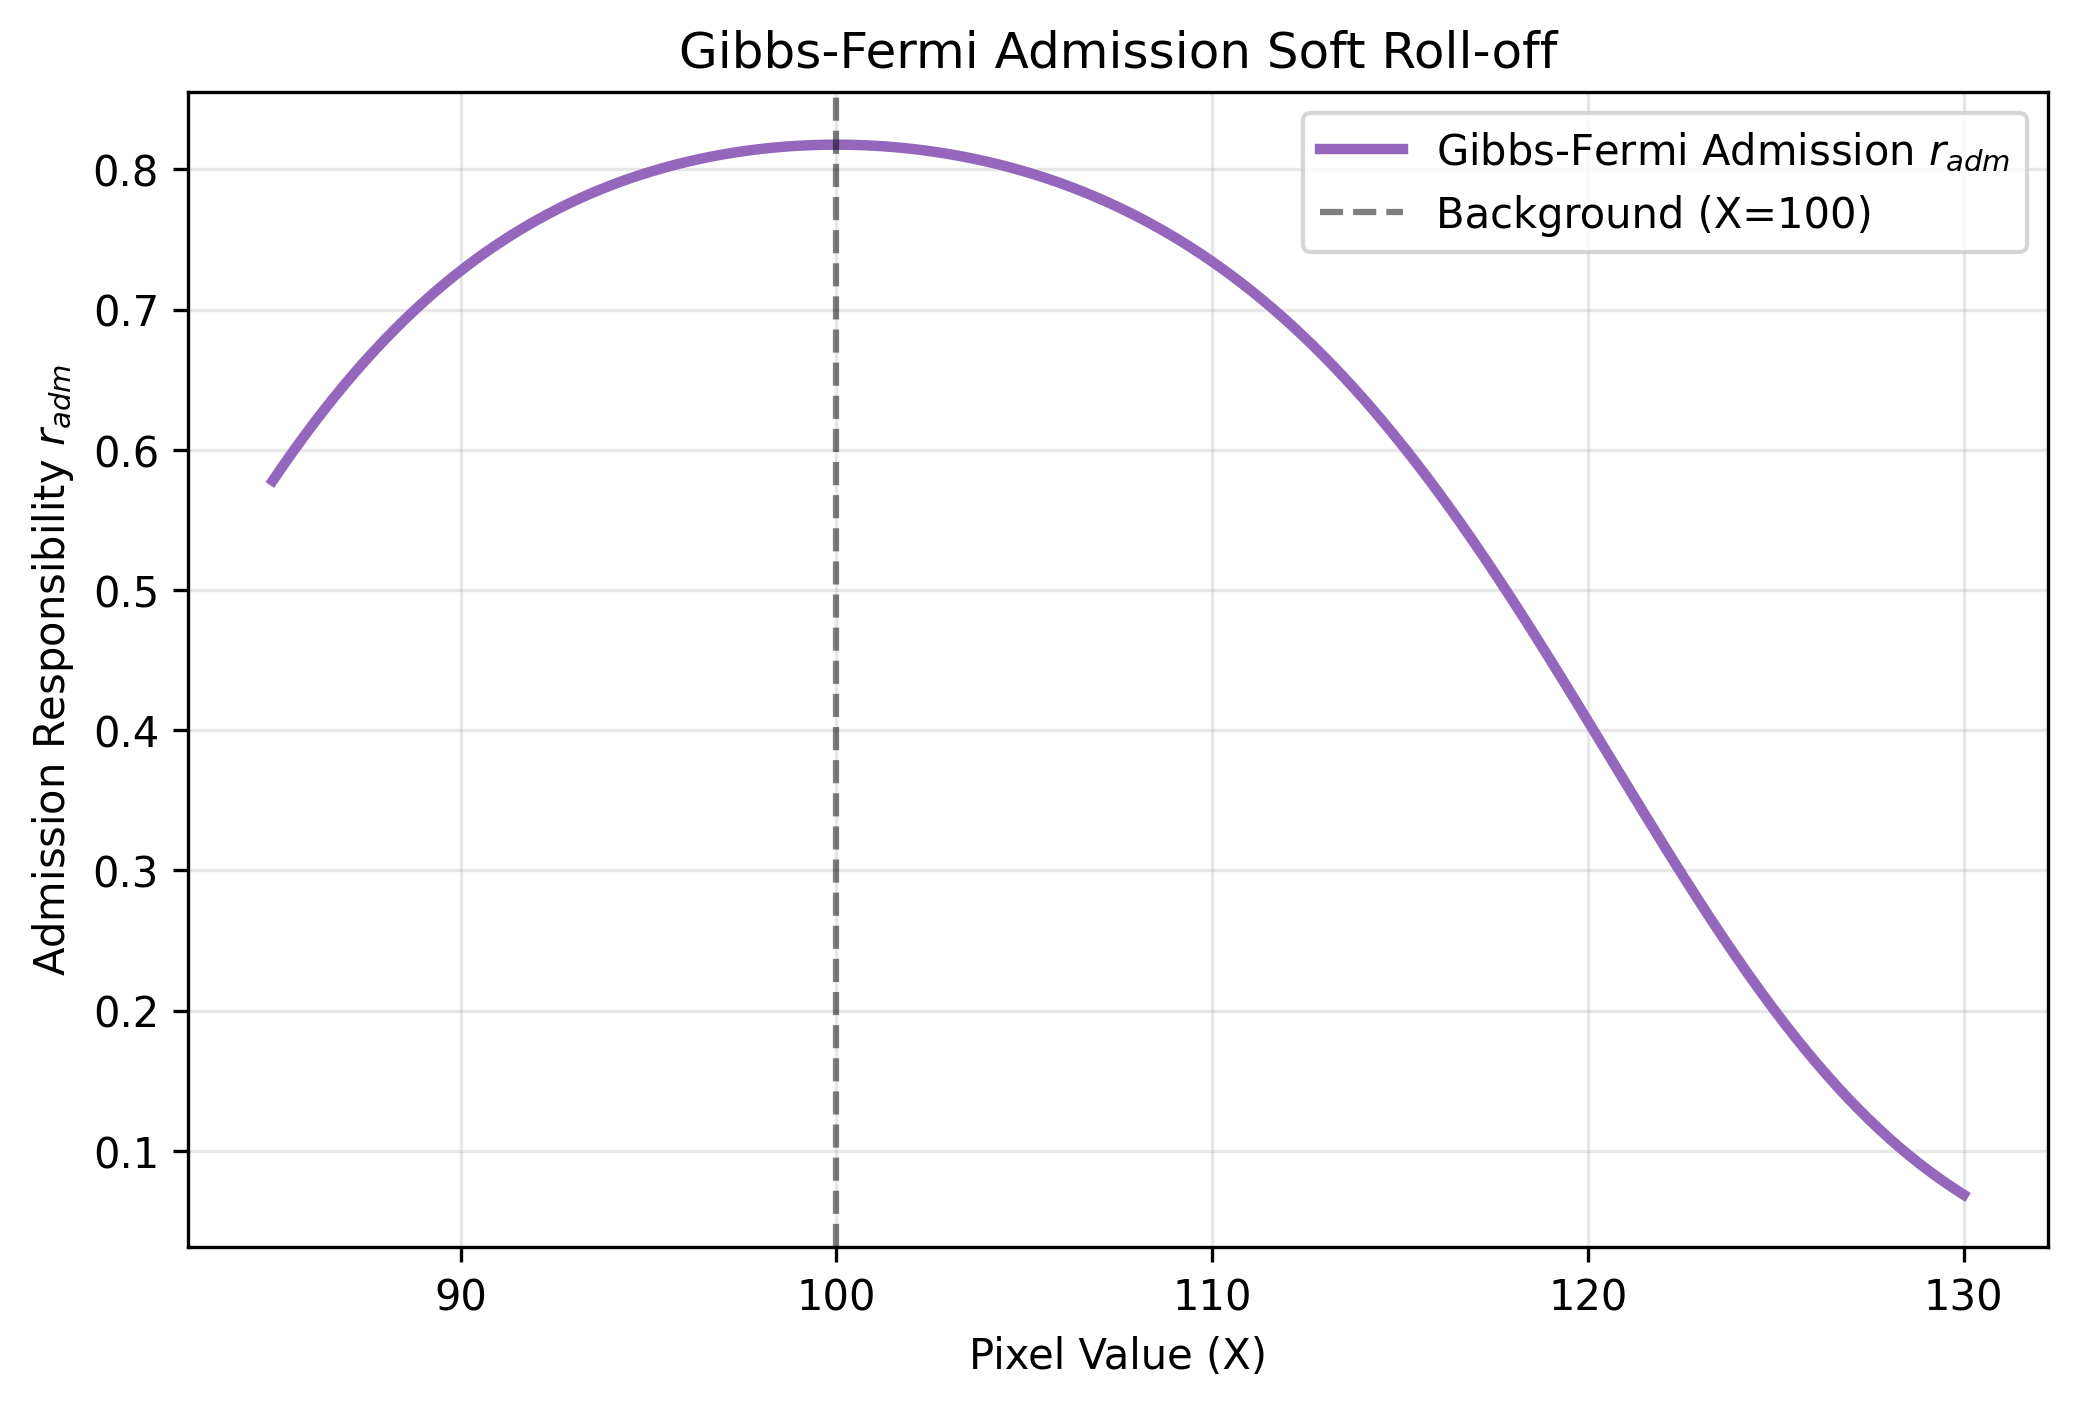
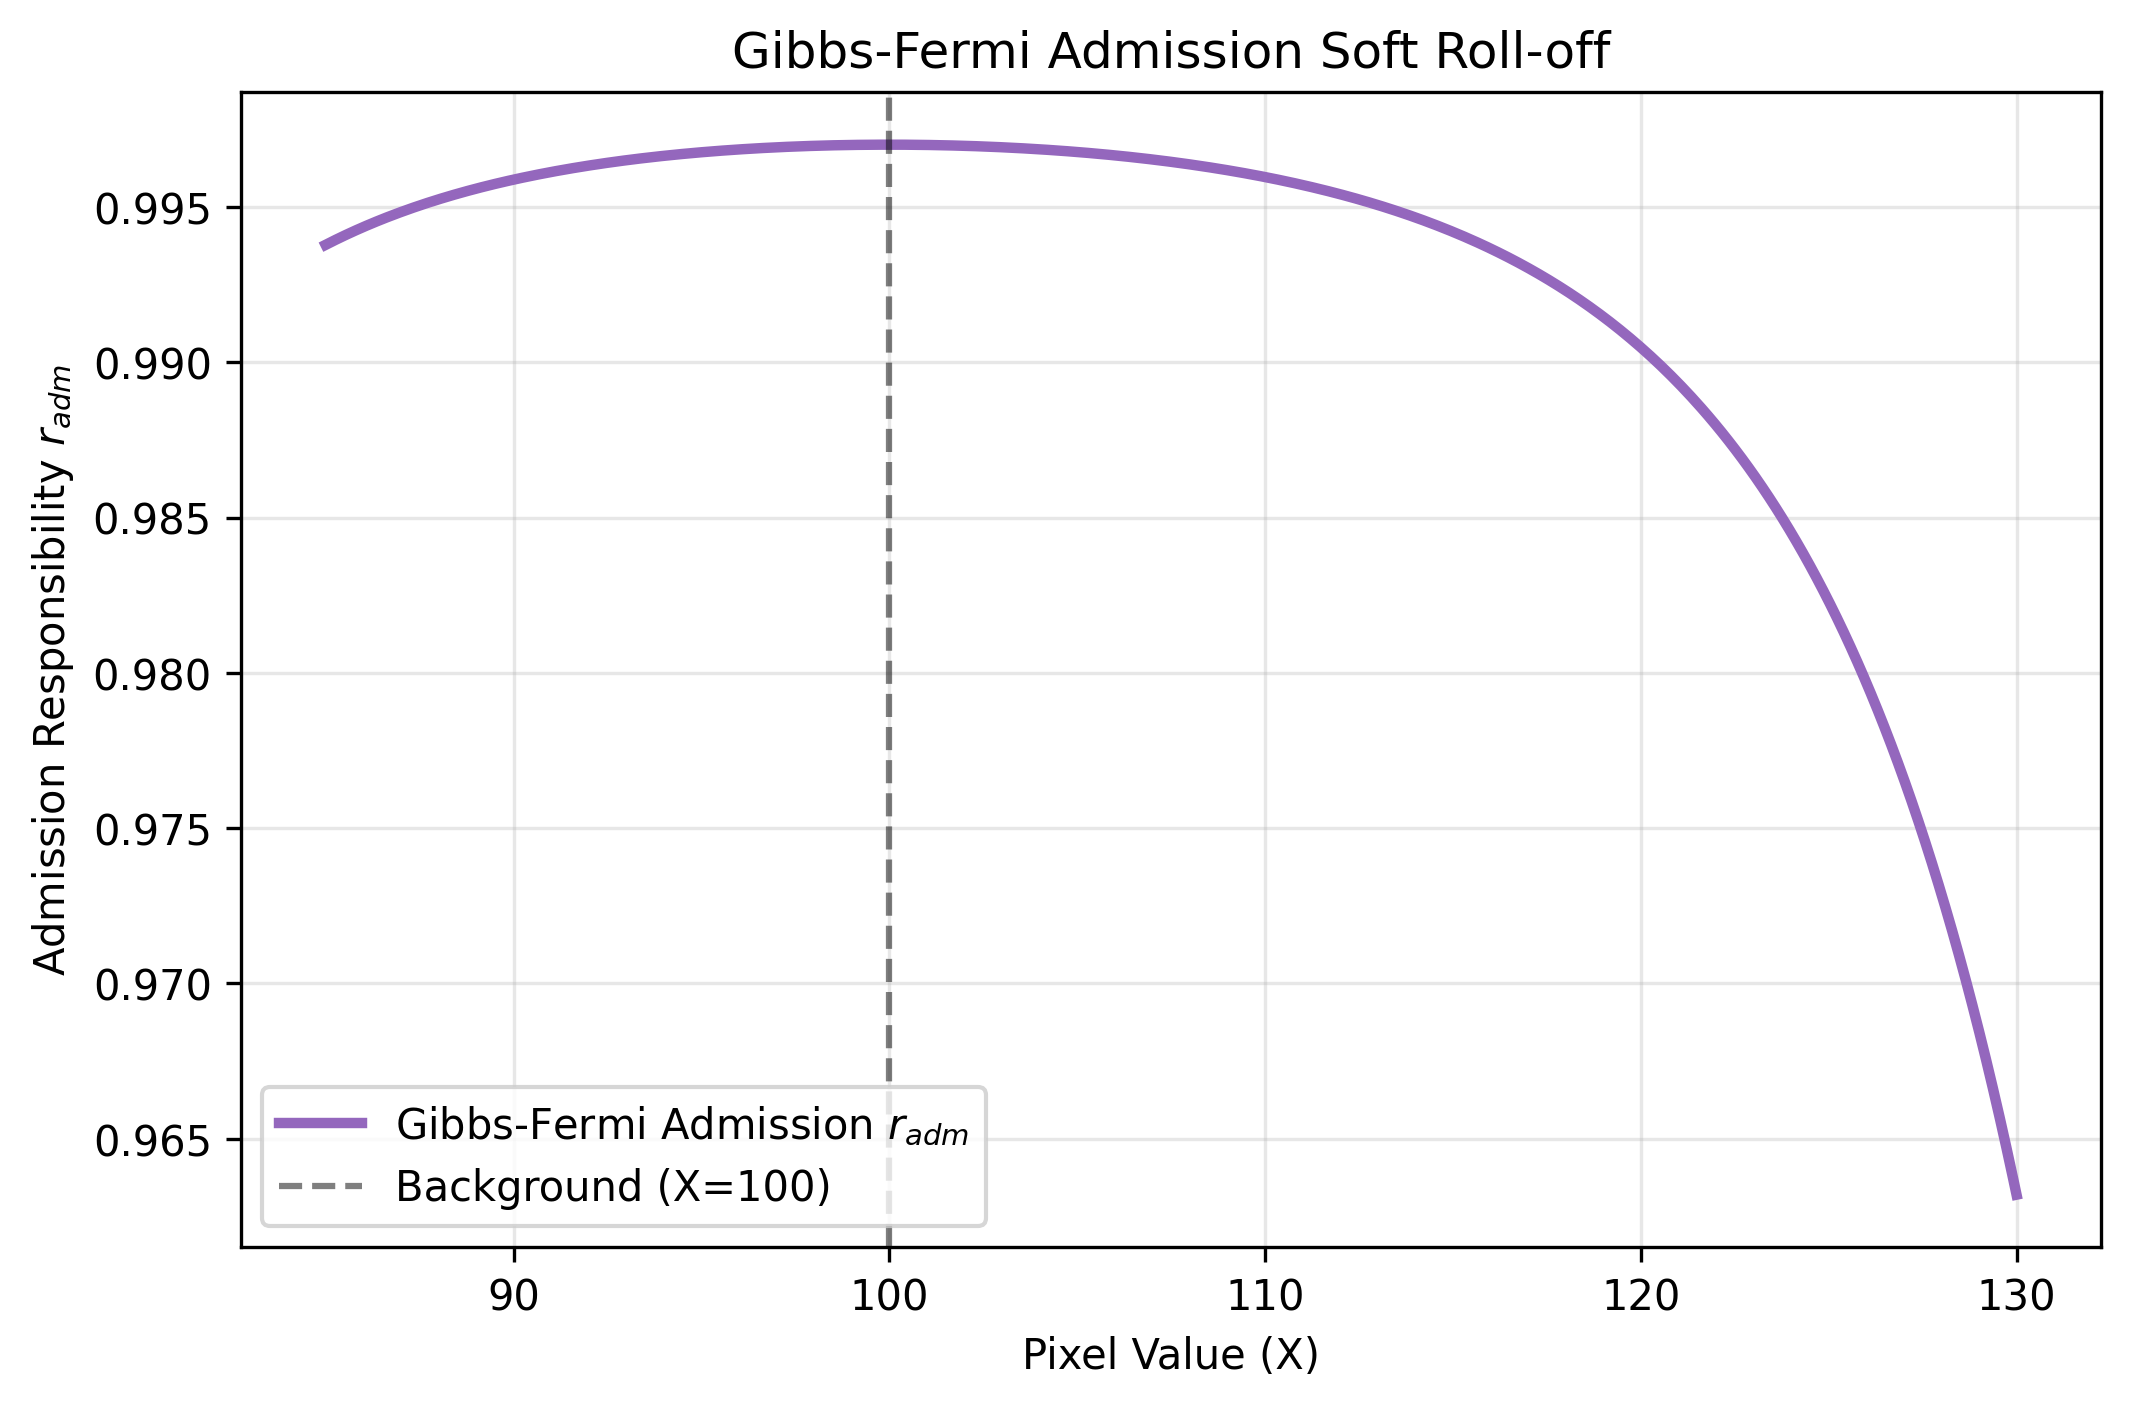
docs: Update phase space plots using exact Nelder-Mead optimized thresholds

diff --git a/generate_money_shots.py b/generate_money_shots.py
@@ -6,10 +6,10 @@ def generate_plots():
     # Locked optimal parameters
     pipeline = ModularAsymmetricCMOSPipeline(
         a=1.0, b=0.0, domain_floor=84.95,
-        mu_admission=3.0, epsilon_admission=2.0,
-        tau_cosmic=15.0, epsilon_cosmic=2.0,
-        tau_dropout=15.0, epsilon_dropout=1.5,
-        k_l_admission=0.5, k_l_cosmic=1.0, k_l_dropout=0.5, k_track=1.0
+        mu_admission=18.76, epsilon_admission=3.23,
+        tau_cosmic=25.38, epsilon_cosmic=3.0,
+        tau_dropout=62.57, epsilon_dropout=3.0,
+        k_l_admission=0.0, k_l_cosmic=0.0, k_l_dropout=0.0, k_track=0.0
     )
     
     bg = 100.0
